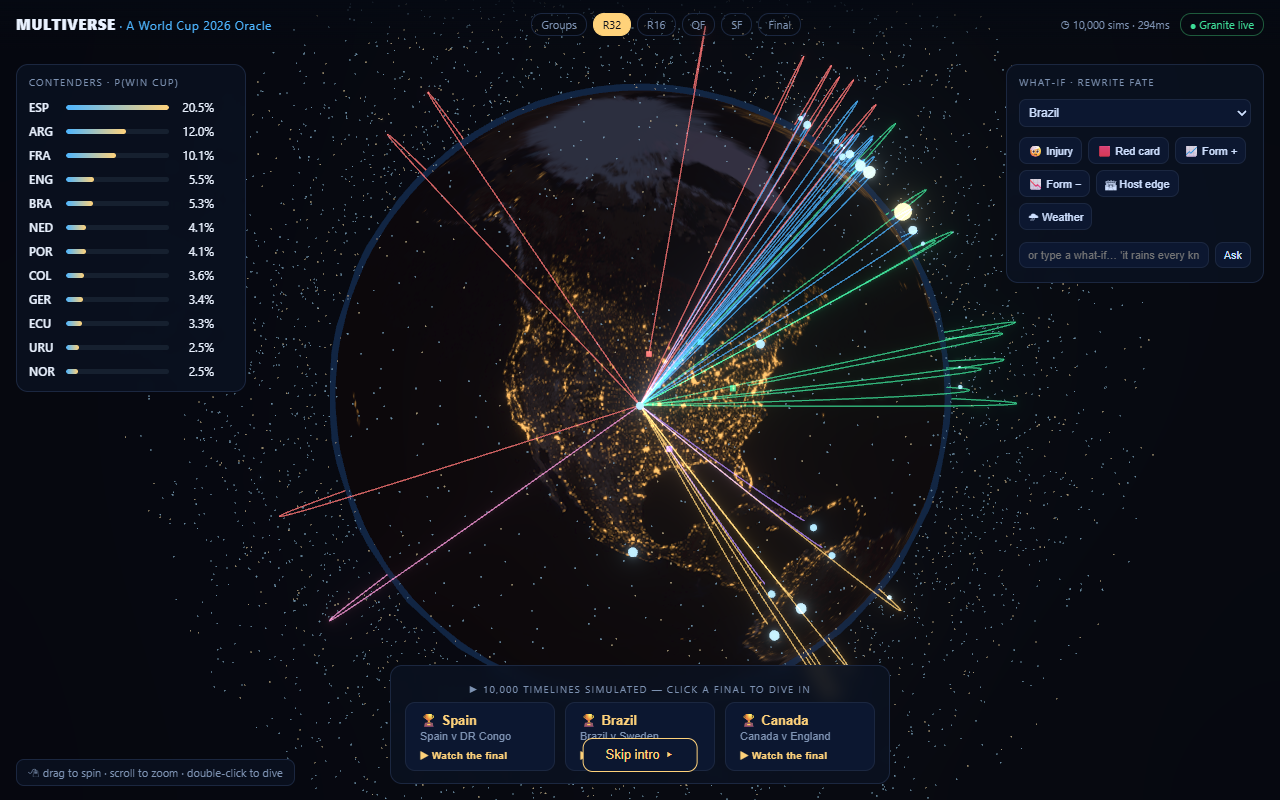
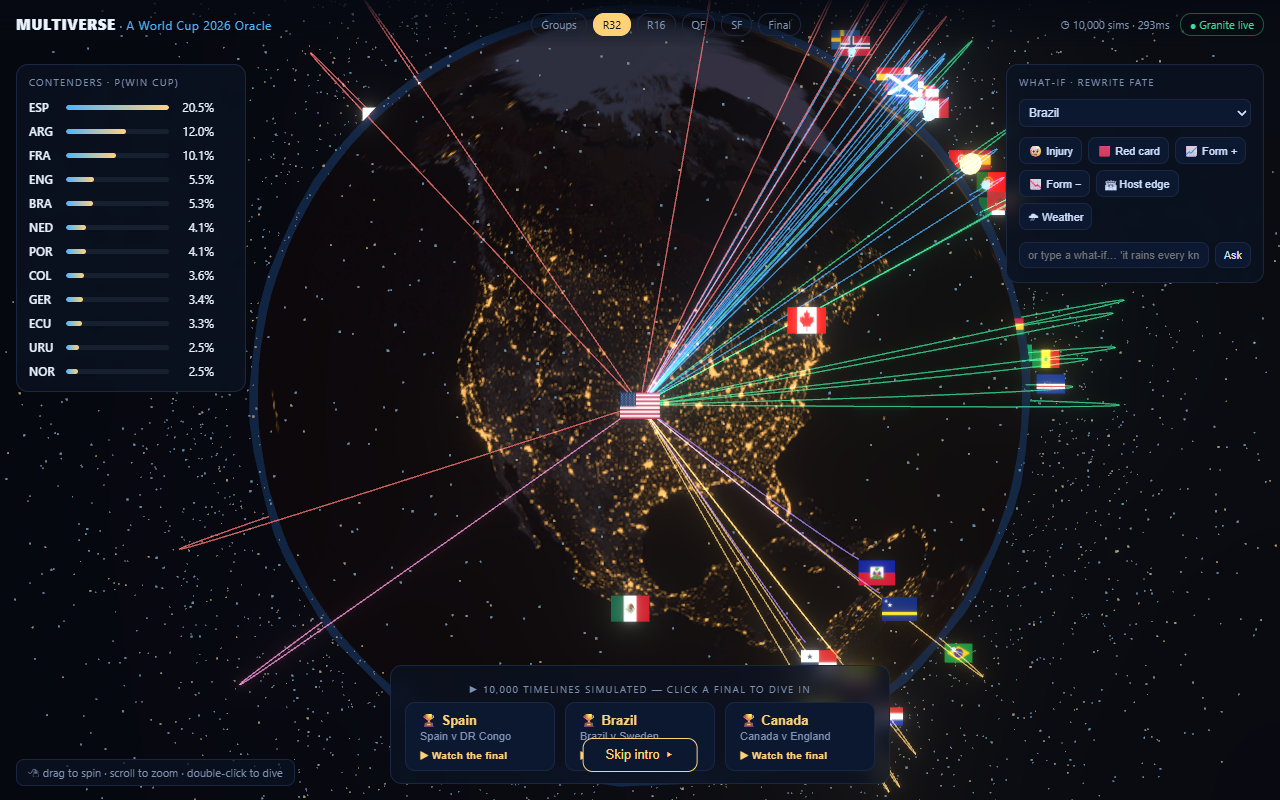
feat(arcs): pixel flags pop up at each nation as its arc launches (depth-occluded on the back); refreshed hero (4/4 e2e green)

diff --git a/web/src/scene/Flags.tsx b/web/src/scene/Flags.tsx
@@ -1,0 +1,64 @@
+import * as THREE from 'three'
+import { useMemo, useRef } from 'react'
+import { useFrame } from '@react-three/fiber'
+import { useTexture } from '@react-three/drei'
+import { useStore } from '../state/store'
+import { COORDS, latLonToVec3 } from '../data/coords'
+import { GLOBE_R as R } from './Globe'
+
+const HOSTS = new Set(['USA', 'CAN', 'MEX'])
+const SPREAD = 3.2 // must match Arcs so each flag pops as its arc launches
+function hash(s: string): number {
+  let h = 2166136261
+  for (let i = 0; i < s.length; i++) { h ^= s.charCodeAt(i); h = Math.imul(h, 16777619) }
+  return h >>> 0
+}
+const easeOutBack = (t: number) => { const c1 = 1.70158, c3 = c1 + 1; return 1 + c3 * Math.pow(t - 1, 3) + c1 * Math.pow(t - 1, 2) }
+const W = 0.17, H = 0.115
+
+// A small pixel flag pops up (scale overshoot) at each nation's location, timed to its arc.
+// Sprites depth-test against the globe, so back-side flags are naturally occluded.
+export function Flags() {
+  const ratings = useStore((s) => s.ratings)
+  const codes = useMemo(() => (ratings ? ratings.teams.filter((t) => COORDS[t.code]).map((t) => t.code) : []), [ratings])
+  const meta = useMemo(() => {
+    if (!ratings) return [] as { code: string; pos: [number, number, number]; delay: number }[]
+    const nonHost = ratings.teams.filter((t) => COORDS[t.code] && !HOSTS.has(t.code))
+    const dmap: Record<string, number> = {}
+    nonHost.forEach((t, i) => { dmap[t.code] = (i / nonHost.length) * SPREAD + ((hash(t.code) % 100) / 100) * 0.4 })
+    return codes.map((c) => {
+      const [lat, lon] = COORDS[c]
+      const v = latLonToVec3(lat, lon, 1)
+      const n = new THREE.Vector3(v[0], v[1], v[2]).normalize().multiplyScalar(R + 0.16)
+      return { code: c, pos: [n.x, n.y, n.z] as [number, number, number], delay: HOSTS.has(c) ? 0.15 : (dmap[c] ?? 0) }
+    })
+  }, [ratings, codes])
+
+  const tex = useTexture(codes.map((c) => `/flags/${c}.png`))
+  const texArr = Array.isArray(tex) ? tex : [tex]
+  const refs = useRef<(THREE.Sprite | null)[]>([])
+  const elapsed = useRef(0)
+
+  useFrame((_, dt) => {
+    elapsed.current += dt
+    const e = elapsed.current
+    for (let i = 0; i < meta.length; i++) {
+      const sp = refs.current[i]
+      if (!sp) continue
+      const t = THREE.MathUtils.clamp((e - meta[i].delay) / 0.5, 0, 1)
+      const s = t <= 0 ? 0.0001 : easeOutBack(t)
+      sp.scale.set(W * s, H * s, 1)
+    }
+  })
+
+  if (!meta.length) return null
+  return (
+    <group>
+      {meta.map((m, i) => (
+        <sprite key={m.code} ref={(el) => { refs.current[i] = el }} position={m.pos} scale={[0.0001, 0.0001, 1]}>
+          <spriteMaterial map={texArr[i]} transparent depthWrite={false} toneMapped={false} />
+        </sprite>
+      ))}
+    </group>
+  )
+}

diff --git a/web/src/scene/Scene.tsx b/web/src/scene/Scene.tsx
@@ -1,9 +1,11 @@
+import { Suspense } from 'react'
 import { EffectComposer, Bloom } from '@react-three/postprocessing'
 import { Globe } from './Globe'
 import { Stadium } from './Stadium'
 import { ShockRing } from './ShockRing'
 import { CameraRig } from './CameraRig'
 import { Arcs } from './Arcs'
+import { Flags } from './Flags'
 import { useStore } from '../state/store'
 import { quality } from '../quality'
 
@@ -17,6 +19,7 @@ export function Scene() {
       {!inStadium && <Globe />}
       {!inStadium && <ShockRing />}
       {view === 'cold' && <Arcs />}
+      {view === 'cold' && <Suspense fallback={null}><Flags /></Suspense>}
       {inStadium && <Stadium />}
       <CameraRig />
       {quality.bloom && (
